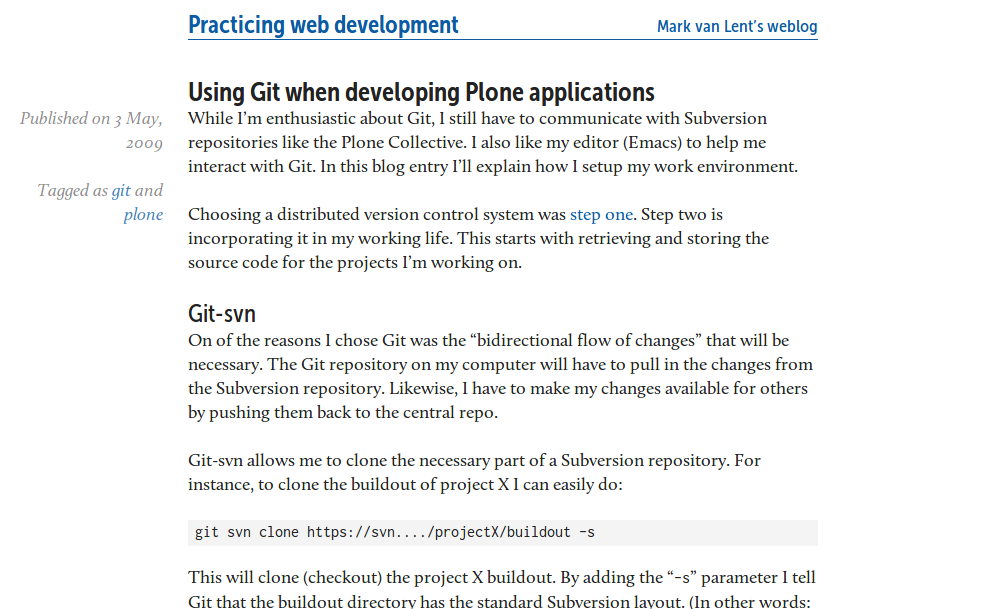
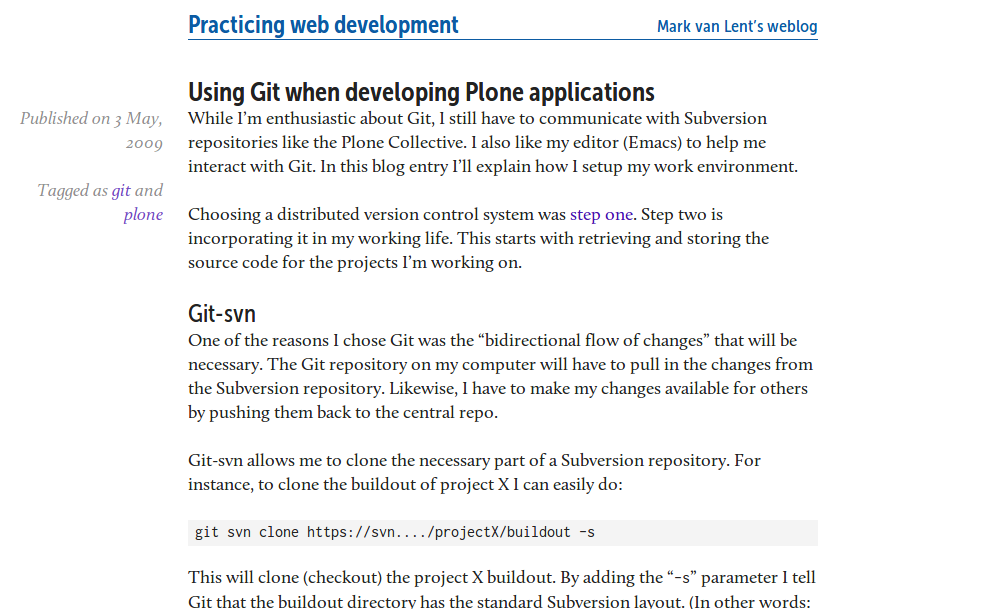
Correct typo in a blog entry.
Because this is the blog entry I took a screenshot of, I also needed
to retake that screenshot...

Changed region(s): [[0.2159, 0.5304, 0.802, 0.5928], [0.5552, 0.3432, 0.6169, 0.3744], [0.1234, 0.3432, 0.1542, 0.3744]]

diff --git a/content/weblog/2009/using-git-when-developing-plone-applications.md b/content/weblog/2009/using-git-when-developing-plone-applications.md
@@ -17,7 +17,7 @@ and storing the source code for the projects I'm working on.
 
 # Git-svn
 
-On of the reasons I chose Git was the "bidirectional flow of
+One of the reasons I chose Git was the "bidirectional flow of
 changes" that will be necessary. The Git repository on my computer
 will have to pull in the changes from the Subversion
 repository. Likewise, I have to make my changes available for others
